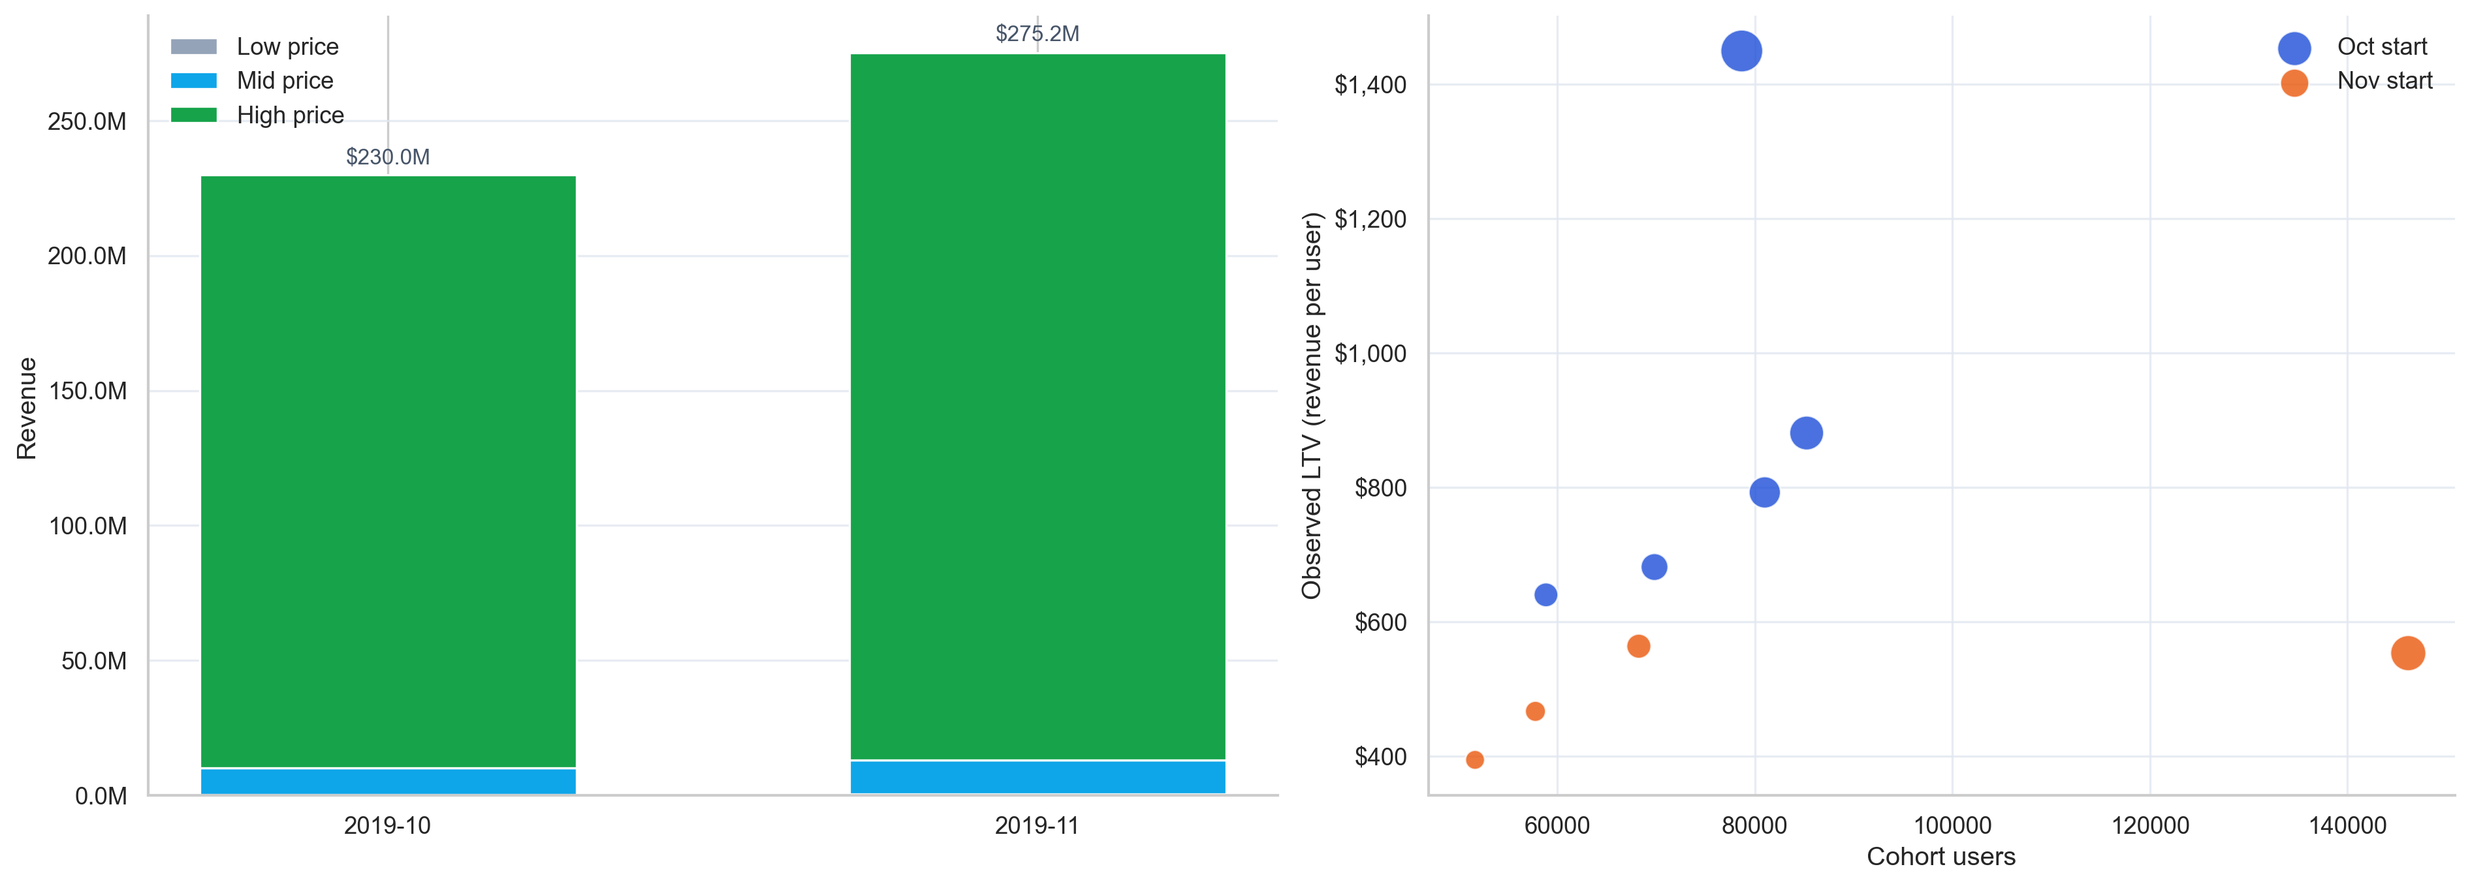
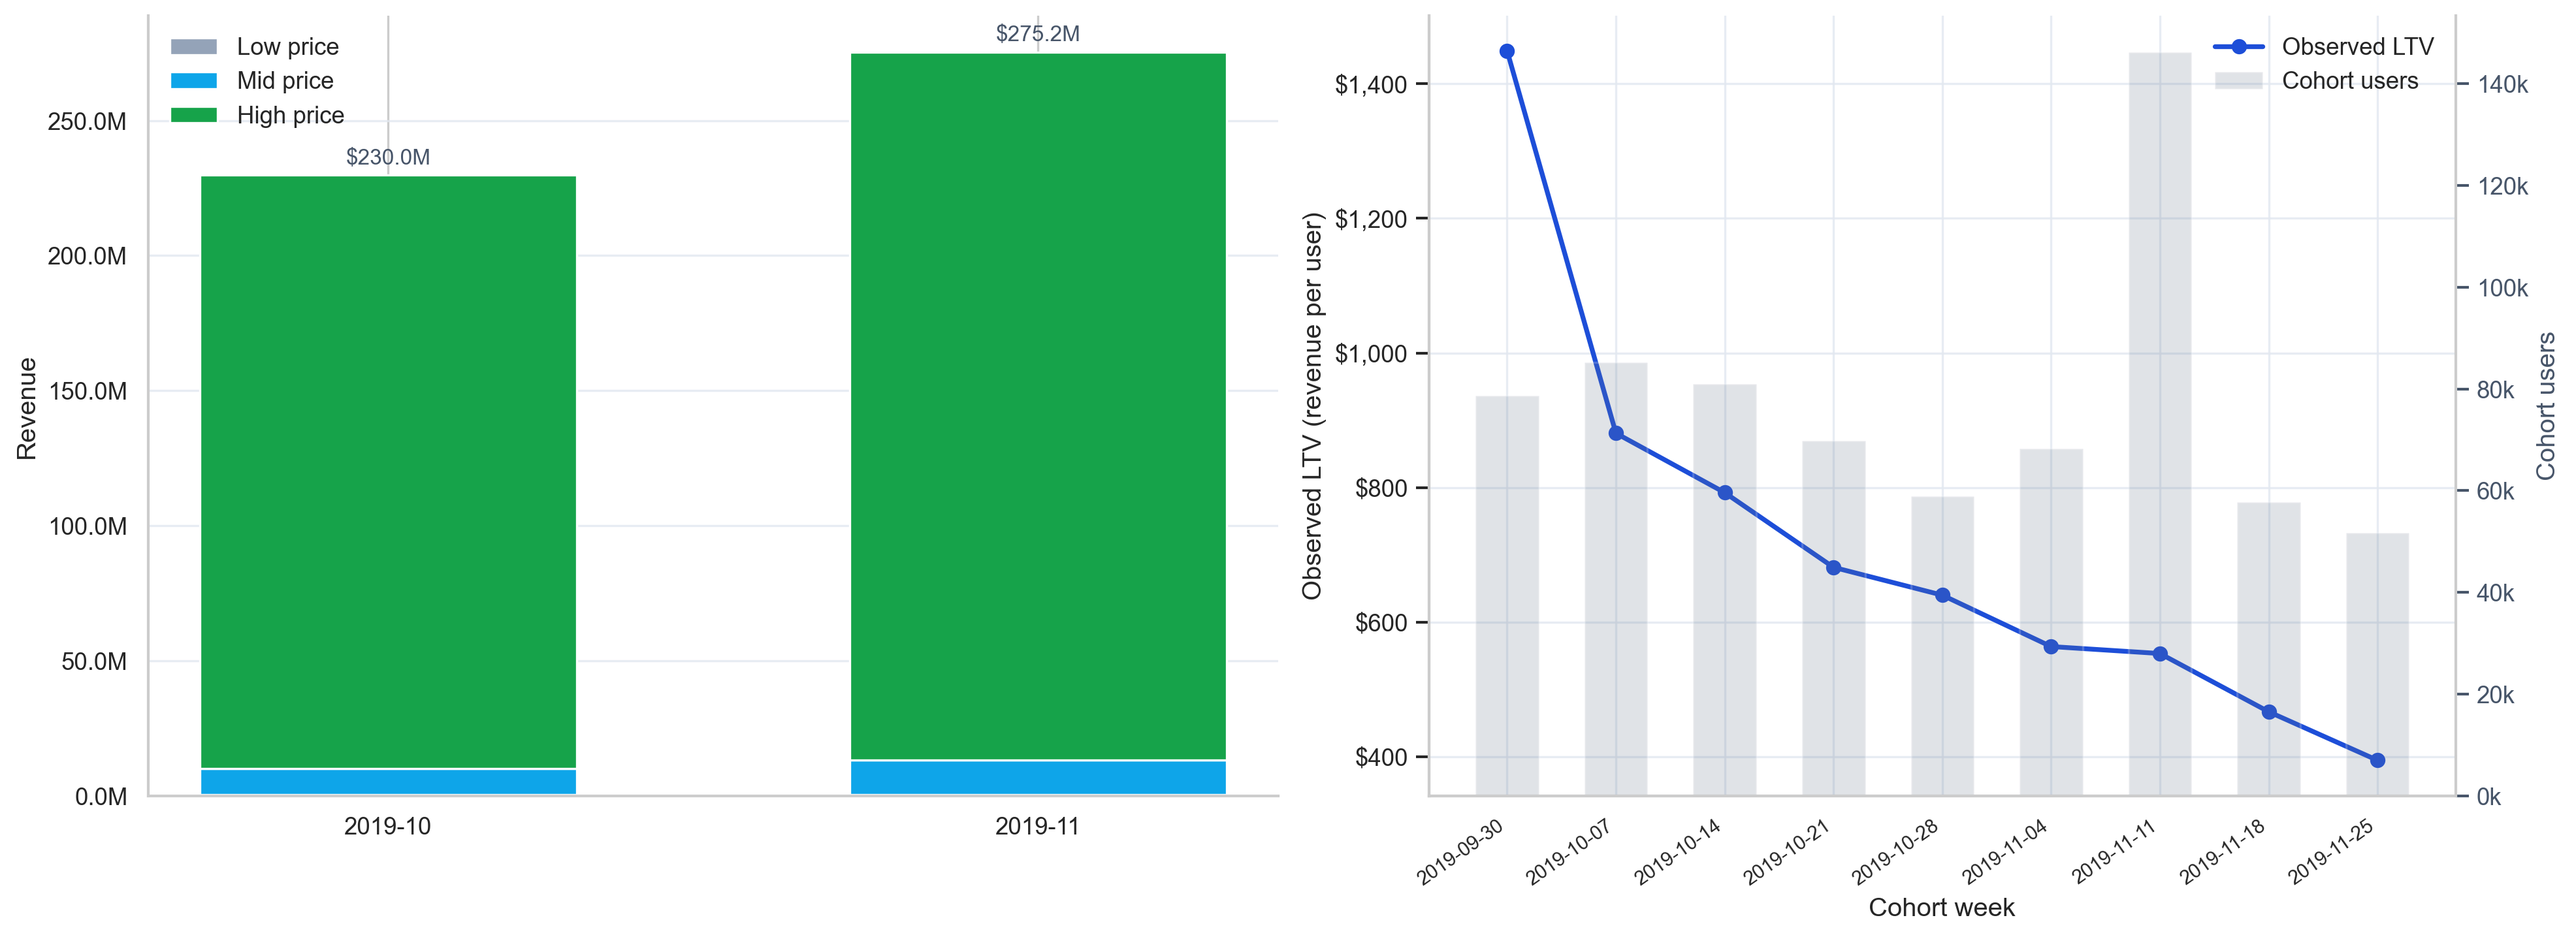
improve retention readability and monetization signal

diff --git a/docs/index.html b/docs/index.html
@@ -121,7 +121,7 @@
 
         <div class="viz-card retention">
           <h4 class="viz-title">02) Cohort Retention Quality</h4>
-          <p class="viz-kicker">Left: retention heatmap by cohort week. Right: retention decay curve by cohort group.</p>
+          <p class="viz-kicker">Left: retention heatmap by cohort week. Right: decay curve from week 1 onward (focus on repeat behavior after the first purchase).</p>
           <img src="https://raw.githubusercontent.com/Victor-Garlet/growth-funnel-analytics/main/assets/retention.png" alt="Weekly retention heatmap by cohort" />
           <div class="story">
             <p><b>What happened:</b> Repeat purchase drops from 13.3% in week 1 to 10.2% in week 2, and November cohorts start below October cohorts at week 1 (-3.6 pp).</p>
@@ -132,17 +132,17 @@
 
         <div class="viz-card monetization">
           <h4 class="viz-title">03) Revenue Mix and Cohort Monetization</h4>
-          <p class="viz-kicker">Left: revenue mix by price segment with zoom for low/mid. Right: observed LTV vs cohort size.</p>
+          <p class="viz-kicker">Left: revenue mix by price segment. Right: observed LTV trend by cohort week with cohort-size context.</p>
           <img src="https://raw.githubusercontent.com/Victor-Garlet/growth-funnel-analytics/main/assets/revenue.png" alt="Revenue by price segment" />
           <div class="story">
             <p><b>What happened:</b> Revenue grew +19.7% MoM, with 95.2% of November revenue concentrated in high-price products; low-price contribution remains very small.</p>
-            <p><b>Why it likely happened:</b> High-price segment contributed most of growth (+$42.3M of +$45.2M total growth), led by categories such as smartphones. This indicates revenue expansion was premium-led rather than broad-based.</p>
+            <p><b>Why it likely happened:</b> High-price segment contributed most of growth (+$42.3M of +$45.2M total growth), led by categories such as smartphones. At cohort level, observed LTV trends downward in newer cohorts even when cohort sizes vary, suggesting monetization quality pressure over time.</p>
             <p><b>Business implication:</b> Protect premium conversion while building repeat value in newer cohorts to reduce dependence on a narrow monetization base.</p>
           </div>
         </div>
       </div>
 
-      <p class="hypothesis-note">Note: “Why it likely happened” statements are evidence-based hypotheses from behavioral patterns in the dataset, not causal proofs.</p>
+      <p class="hypothesis-note">Note: "Why it likely happened" statements are evidence-based hypotheses from behavioral patterns in the dataset, not causal proofs.</p>
     </div>
   </div>
 

diff --git a/generate_portfolio_assets.py b/generate_portfolio_assets.py
@@ -339,11 +339,15 @@ def save_retention_chart(retention: pd.DataFrame, out_path: Path, dpi: int) -> N
         "Recent cohorts (Nov)",
     )
     curves = (
-        retention[retention["week_number"] <= 6]
+        retention[(retention["week_number"] >= 1) & (retention["week_number"] <= 6)]
         .groupby(["cohort_group", "week_number"], as_index=False)["retention_rate"]
         .mean()
     )
-    avg_curve = retention.groupby("week_number", as_index=False)["retention_rate"].mean()
+    avg_curve = (
+        retention[(retention["week_number"] >= 1) & (retention["week_number"] <= 6)]
+        .groupby("week_number", as_index=False)["retention_rate"]
+        .mean()
+    )
 
     fig, axes = plt.subplots(1, 2, figsize=(16, 6), dpi=dpi, gridspec_kw={"width_ratios": [1.4, 1]})
     ax_heatmap, ax_curve = axes
@@ -385,8 +389,10 @@ def save_retention_chart(retention: pd.DataFrame, out_path: Path, dpi: int) -> N
     ax_curve.set_xlabel("Weeks Since First Purchase")
     ax_curve.set_ylabel("Retention rate")
     ax_curve.yaxis.set_major_formatter(FuncFormatter(lambda v, _p: f"{v:.0%}"))
-    ax_curve.set_xticks(range(0, 7))
-    ax_curve.set_ylim(0, 1.05)
+    ax_curve.set_xticks(range(1, 7))
+    ax_curve.set_xlim(0.8, 6.2)
+    max_ret = float(max(curves["retention_rate"].max(), avg_curve["retention_rate"].max()))
+    ax_curve.set_ylim(0, max_ret * 1.25)
     ax_curve.grid(axis="y", color=GRID, linewidth=1, alpha=0.8)
     ax_curve.spines["top"].set_visible(False)
     ax_curve.spines["right"].set_visible(False)
@@ -412,8 +418,8 @@ def save_revenue_chart(revenue: pd.DataFrame, ltv: pd.DataFrame, out_path: Path,
     )
     totals = rev_pivot.sum(axis=1)
 
+    ltv = ltv.sort_values("cohort_week").reset_index(drop=True)
     ltv["cohort_label"] = ltv["cohort_week"].dt.strftime("%Y-%m-%d")
-    ltv["cohort_group"] = np.where(ltv["cohort_week"] < pd.Timestamp("2019-11-01"), "Oct start", "Nov start")
 
     fig, axes = plt.subplots(1, 2, figsize=(16, 6), dpi=dpi, gridspec_kw={"width_ratios": [1.1, 1]})
     ax_mix, ax_ltv = axes
@@ -444,29 +450,42 @@ def save_revenue_chart(revenue: pd.DataFrame, ltv: pd.DataFrame, out_path: Path,
     for i, total in enumerate(totals):
         ax_mix.text(i, total * 1.01, f"${total / 1_000_000:.1f}M", ha="center", va="bottom", fontsize=10, color=MUTED)
 
-    bubble_colors = {"Oct start": BLUE, "Nov start": ORANGE}
-    for group, color in bubble_colors.items():
-        subset = ltv[ltv["cohort_group"] == group]
-        if subset.empty:
-            continue
-        ax_ltv.scatter(
-            subset["cohort_users"],
-            subset["observed_ltv"],
-            s=np.clip(subset["total_revenue"] / 300_000, 80, 700),
-            alpha=0.8,
-            color=color,
-            label=group,
-            edgecolor="white",
-            linewidth=0.8,
-        )
-
-    ax_ltv.set_xlabel("Cohort users")
+    x_ltv = np.arange(len(ltv))
+    ax_ltv.plot(
+        x_ltv,
+        ltv["observed_ltv"],
+        color=BLUE,
+        marker="o",
+        linewidth=2.2,
+        label="Observed LTV",
+    )
+    ax_ltv.set_xlabel("Cohort week")
     ax_ltv.set_ylabel("Observed LTV (revenue per user)")
     ax_ltv.yaxis.set_major_formatter(FuncFormatter(lambda v, _p: f"${v:,.0f}"))
     ax_ltv.grid(color=GRID, linewidth=1, alpha=0.8)
     ax_ltv.spines["top"].set_visible(False)
     ax_ltv.spines["right"].set_visible(False)
-    ax_ltv.legend(frameon=False, loc="upper right")
+    ax_ltv.set_xticks(x_ltv)
+    ax_ltv.set_xticklabels(ltv["cohort_label"], rotation=35, ha="right", fontsize=9)
+
+    ax_users = ax_ltv.twinx()
+    ax_users.bar(
+        x_ltv,
+        ltv["cohort_users"],
+        width=0.58,
+        alpha=0.2,
+        color=SLATE,
+        label="Cohort users",
+    )
+    ax_users.set_ylabel("Cohort users", color=MUTED)
+    ax_users.tick_params(axis="y", colors=MUTED)
+    ax_users.yaxis.set_major_formatter(FuncFormatter(lambda v, _p: f"{v/1000:.0f}k"))
+    ax_users.grid(False)
+    ax_users.spines["top"].set_visible(False)
+
+    ltv_handles, ltv_labels = ax_ltv.get_legend_handles_labels()
+    users_handles, users_labels = ax_users.get_legend_handles_labels()
+    ax_ltv.legend(ltv_handles + users_handles, ltv_labels + users_labels, frameon=False, loc="upper right")
 
     fig.subplots_adjust(left=0.06, right=0.98, bottom=0.12, top=0.95, wspace=0.14)
     fig.savefig(out_path, bbox_inches="tight")
